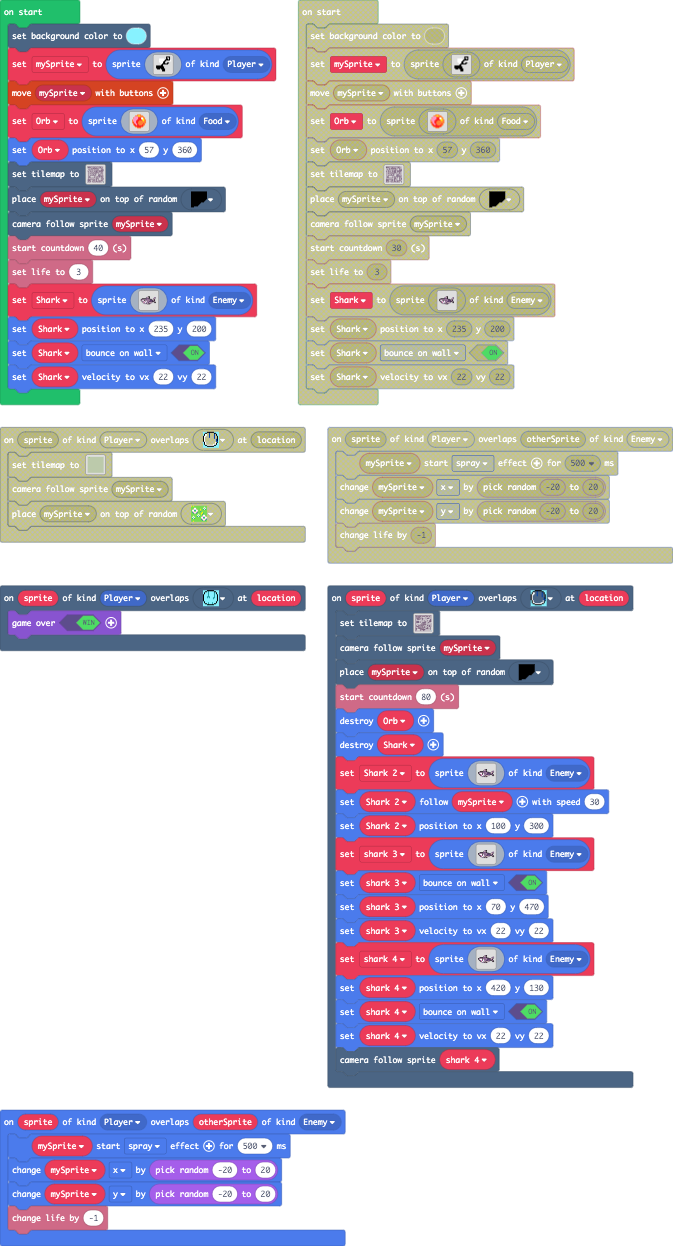
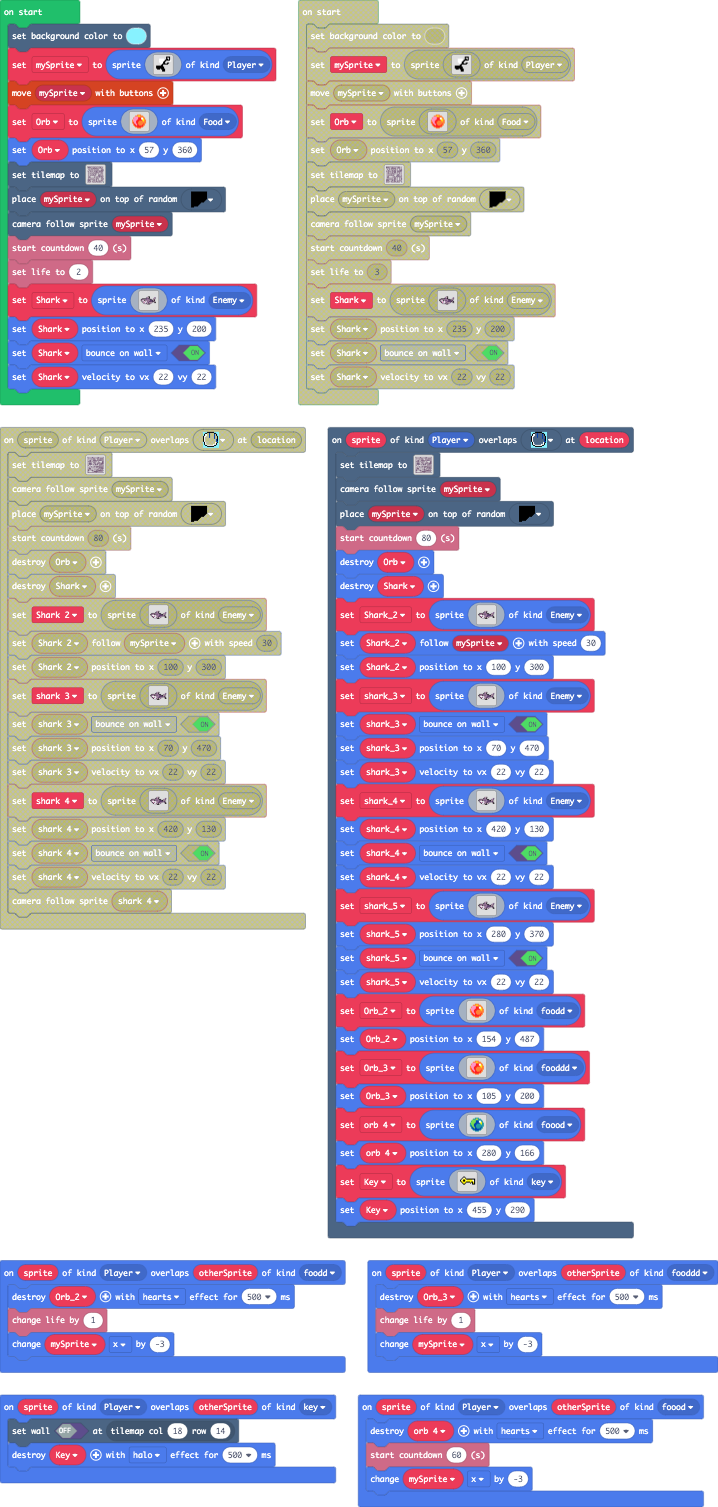
added more enemys and food

diff --git a/main.ts b/main.ts
@@ -1,3 +1,9 @@
+namespace SpriteKind {
+    export const foodd = SpriteKind.create()
+    export const fooddd = SpriteKind.create()
+    export const key = SpriteKind.create()
+    export const foood = SpriteKind.create()
+}
 namespace myTiles {
     //% blockIdentity=images._tile
     export const tile0 = img`
@@ -60,6 +66,15 @@ f 1 . . . . . . . . . . . 8 8 9
 scene.onOverlapTile(SpriteKind.Player, myTiles.tile1, function (sprite, location) {
     game.over(true)
 })
+sprites.onOverlap(SpriteKind.Player, SpriteKind.foood, function (sprite, otherSprite) {
+    orb_4.destroy(effects.hearts, 500)
+    info.startCountdown(60)
+    mySprite.x += -3
+})
+sprites.onOverlap(SpriteKind.Player, SpriteKind.key, function (sprite, otherSprite) {
+    tiles.setWallAt(tiles.getTileLocation(18, 14), false)
+    Key.destroy(effects.halo, 500)
+})
 sprites.onOverlap(SpriteKind.Player, SpriteKind.Food, function (sprite, otherSprite) {
     Orb.destroy(effects.hearts, 500)
     info.changeLifeBy(1)
@@ -71,9 +86,14 @@ sprites.onOverlap(SpriteKind.Player, SpriteKind.Enemy, function (sprite, otherSp
     mySprite.y += Math.randomRange(-20, 20)
     info.changeLifeBy(-1)
 })
+sprites.onOverlap(SpriteKind.Player, SpriteKind.foodd, function (sprite, otherSprite) {
+    Orb_2.destroy(effects.hearts, 500)
+    info.changeLifeBy(1)
+    mySprite.x += -3
+})
 scene.onOverlapTile(SpriteKind.Player, myTiles.tile2, function (sprite, location) {
     tiles.setTilemap(tiles.createTilemap(
[2 lines of base64/hex data omitted]
             img`
 2 2 2 2 2 2 2 2 2 2 2 2 2 2 2 2 2 2 2 2 2 2 2 2 2 2 2 2 2 2 2 2 
 . . . . . . . . . . . . . . . . . . . . . . . . . . . . . . . . 
@@ -96,15 +116,15 @@ scene.onOverlapTile(SpriteKind.Player, myTiles.tile2, function (sprite, location
 2 . . 2 . . . . . . 2 . 2 . 2 2 2 2 2 2 2 . . 2 . 2 . 2 . 2 . 2 
 2 . . . 2 . . . . . 2 . . . 2 . . 2 . 2 2 2 2 2 . 2 . 2 . 2 . 2 
 2 . 2 . . 2 2 2 2 . 2 2 2 2 2 . 2 2 . 2 . . . . . 2 . 2 . 2 . 2 
-2 . 2 2 . . . . 2 . 2 . . . 2 . . 2 . 2 . 2 . 2 2 2 . 2 . 2 . 2 
-2 . 2 2 2 2 2 . 2 . 2 . 2 2 2 2 . 2 2 2 . 2 . 2 . 2 . 2 . 2 . 2 
+2 . 2 2 . . . . 2 . 2 . . . 2 . . 2 2 2 . 2 . 2 2 2 . 2 . 2 . 2 
+2 . 2 2 2 2 2 . 2 . 2 . 2 2 2 2 . 2 . . . 2 . 2 . 2 . 2 . . . 2 
 2 . 2 2 2 2 2 . . . 2 . . . . . . . . . . 2 . 2 . 2 . 2 2 2 2 2 
-2 . . . . 2 2 2 2 2 2 . 2 2 2 . 2 2 2 2 . 2 . 2 2 2 . . . . . . 
-2 2 2 2 . 2 . . . . . . . . 2 . 2 . . 2 . 2 . . . 2 . 2 2 2 2 . 
+2 . . . . 2 2 2 2 2 2 . 2 2 2 . 2 . . . . 2 . 2 2 2 . . . . . . 
+2 2 2 2 . 2 . . . . . . . . 2 . 2 2 2 2 . 2 . . . 2 . 2 2 2 2 . 
 2 2 2 2 . 2 2 2 2 2 2 2 2 2 2 . 2 . . 2 . 2 2 2 2 2 . 2 . . 2 . 
 2 . . . . . . . . . 2 . . . . . 2 . . 2 . 2 2 2 2 2 2 2 2 2 2 2 
 2 . . . . . . . . . 2 . 2 2 2 2 2 . . 2 . . . . . . . . . . 2 . 
-2 . . . . . . . . . 2 . 2 2 2 2 2 2 2 2 2 2 2 2 2 2 2 2 2 2 . . 
+2 . . . . . . . . . 2 . 2 2 2 2 2 2 2 2 2 2 2 2 2 2 2 2 2 2 2 . 
 2 . . . . . . . . . 2 . . . . . . . . . . . . . . . . . . . . . 
 2 2 2 2 2 2 2 2 2 2 2 2 2 2 2 2 2 2 2 2 2 2 2 2 2 2 2 2 2 2 2 2 
 `,
@@ -178,11 +198,117 @@ f b b b 1 1 1 1 f f 1 b c b c b b b c c c c c c c b b b c f . .
     shark_4.setPosition(420, 130)
     shark_4.setFlag(SpriteFlag.BounceOnWall, true)
     shark_4.setVelocity(22, 22)
-    scene.cameraFollowSprite(shark_4)
+    shark_5 = sprites.create(img`
+. . . . . . . . . . . . . c c f f f . . . . . . . . . . . . . . 
+. . . . . . . . . . . . c d d b b f . . . . . . . . . . . . . . 
+. . . . . . . . . . . c d d b b f . . . . . . . . . . . . . . . 
+. . . . . . . . . . f c c b b c f . . . . . . . . . . . . c c c 
+. . . . f f f f f f c c c c c c f f . . . . . . . . . c c b b c 
+. . f f b b b b b b b b b b b b b c f f f . . . . . c d b b c . 
+f f b b b b b b b b b c b c b b b b c c c f f . . c d d b b f . 
+f b c b b b b b f f b b c b c b b b c c c c c f f f d b b f . . 
+f b b b 1 1 1 1 f f 1 b c b c b b b c c c c c c c b b b c f . . 
+. f b 1 1 1 1 1 1 1 1 b b b b b b c c c c c c c c c b c c f . . 
+. . f c c c 3 3 c c 1 1 b b b b c c c c c c c c f f f b b c f . 
+. . . f c 1 3 1 c 1 1 1 b b b c c c c c b d b c . . . f b b f . 
+. . . . f 3 3 c 1 1 1 c b b b f d d d d d c c . . . . . f b b f 
+. . . . . f f 1 1 1 1 f b d b b f d d c c . . . . . . . . f f f 
+. . . . . . . c c c c c f b d b b f c . . . . . . . . . . . . . 
+. . . . . . . . . . . . . f f f f f . . . . . . . . . . . . . . 
+`, SpriteKind.Enemy)
+    shark_5.setPosition(280, 370)
+    shark_5.setFlag(SpriteFlag.BounceOnWall, true)
+    shark_5.setVelocity(22, 22)
+    Orb_2 = sprites.create(img`
+. . . . . . . . . . . . . . . . 
+. . . . . . 4 4 4 4 . . . . . . 
+. . . . 4 4 4 5 5 4 4 4 . . . . 
+. . . 3 3 3 3 4 4 4 4 4 4 . . . 
+. . 4 3 3 3 3 2 2 2 1 1 4 4 . . 
+. . 3 3 3 3 3 2 2 2 1 1 5 4 . . 
+. 4 3 3 3 3 2 2 2 2 2 5 5 4 4 . 
+. 4 3 3 3 2 2 2 4 4 4 4 5 4 4 . 
+. 4 4 3 3 2 2 4 4 4 4 4 4 4 4 . 
+. 4 2 3 3 2 2 4 4 4 4 4 4 4 4 . 
+. . 4 2 3 3 2 4 4 4 4 4 2 4 . . 
+. . 4 2 2 3 2 2 4 4 4 2 4 4 . . 
+. . . 4 2 2 2 2 2 2 2 2 4 . . . 
+. . . . 4 4 2 2 2 2 4 4 . . . . 
+. . . . . . 4 4 4 4 . . . . . . 
+. . . . . . . . . . . . . . . . 
+`, SpriteKind.foodd)
+    Orb_2.setPosition(154, 487)
+    Orb_3 = sprites.create(img`
+. . . . . . . . . . . . . . . . 
+. . . . . . 4 4 4 4 . . . . . . 
+. . . . 4 4 4 5 5 4 4 4 . . . . 
+. . . 3 3 3 3 4 4 4 4 4 4 . . . 
+. . 4 3 3 3 3 2 2 2 1 1 4 4 . . 
+. . 3 3 3 3 3 2 2 2 1 1 5 4 . . 
+. 4 3 3 3 3 2 2 2 2 2 5 5 4 4 . 
+. 4 3 3 3 2 2 2 4 4 4 4 5 4 4 . 
+. 4 4 3 3 2 2 4 4 4 4 4 4 4 4 . 
+. 4 2 3 3 2 2 4 4 4 4 4 4 4 4 . 
+. . 4 2 3 3 2 4 4 4 4 4 2 4 . . 
+. . 4 2 2 3 2 2 4 4 4 2 4 4 . . 
+. . . 4 2 2 2 2 2 2 2 2 4 . . . 
+. . . . 4 4 2 2 2 2 4 4 . . . . 
+. . . . . . 4 4 4 4 . . . . . . 
+. . . . . . . . . . . . . . . . 
+`, SpriteKind.fooddd)
+    Orb_3.setPosition(105, 200)
+    orb_4 = sprites.create(img`
+. . . . . . . . . . . . . . . . 
+. . . . . . 6 6 6 6 . . . . . . 
+. . . . 6 6 6 5 5 6 6 6 . . . . 
+. . . 7 7 7 7 6 6 6 6 6 6 . . . 
+. . 6 7 7 7 7 8 8 8 1 1 6 6 . . 
+. . 7 7 7 7 7 8 8 8 1 1 5 6 . . 
+. 6 7 7 7 7 8 8 8 8 8 5 5 6 6 . 
+. 6 7 7 7 8 8 8 6 6 6 6 5 6 6 . 
+. 6 6 7 7 8 8 6 6 6 6 6 6 6 6 . 
+. 6 8 7 7 8 8 6 6 6 6 6 6 6 6 . 
+. . 6 8 7 7 8 6 6 6 6 6 8 6 . . 
+. . 6 8 8 7 8 8 6 6 6 8 6 6 . . 
+. . . 6 8 8 8 8 8 8 8 8 6 . . . 
+. . . . 6 6 8 8 8 8 6 6 . . . . 
+. . . . . . 6 6 6 6 . . . . . . 
+. . . . . . . . . . . . . . . . 
+`, SpriteKind.foood)
+    orb_4.setPosition(280, 166)
+    Key = sprites.create(img`
+. . . . . . . . . . . . . . . . 
+. . . . . . . . . . . . . . . . 
+. . . . . . . . . . . . . . . . 
+. . . . f f . . . . . . . . . . 
+. . . f 1 1 f . . . . . . . . . 
+. . f 1 5 5 5 f f f f f f f f f 
+. f 1 5 f f 5 1 5 5 5 5 5 1 1 f 
+. f 5 5 f f 5 5 5 5 5 5 5 5 1 f 
+. . f 5 5 5 5 f f f f 5 f f 5 f 
+. . . f 5 5 f . . . . f . f 5 f 
+. . . . f f . . . . . . . f f f 
+. . . . . . . . . . . . . . . . 
+. . . . . . . . . . . . . . . . 
+. . . . . . . . . . . . . . . . 
+. . . . . . . . . . . . . . . . 
+. . . . . . . . . . . . . . . . 
+`, SpriteKind.key)
+    Key.setPosition(455, 290)
 })
+sprites.onOverlap(SpriteKind.Player, SpriteKind.fooddd, function (sprite, otherSprite) {
+    Orb_3.destroy(effects.hearts, 500)
+    info.changeLifeBy(1)
+    mySprite.x += -3
+})
+let Orb_3: Sprite = null
+let shark_5: Sprite = null
 let shark_4: Sprite = null
 let shark_3: Sprite = null
 let Shark_2: Sprite = null
+let Orb_2: Sprite = null
+let Key: Sprite = null
+let orb_4: Sprite = null
 let Shark: Sprite = null
 let Orb: Sprite = null
 let mySprite: Sprite = null
@@ -259,7 +385,7 @@ tiles.setTilemap(tiles.createTilemap(
 tiles.placeOnRandomTile(mySprite, sprites.builtin.oceanDepths10)
 scene.cameraFollowSprite(mySprite)
 info.startCountdown(40)
-info.setLife(3)
+info.setLife(2)
 Shark = sprites.create(img`
 . . . . . . . . . . . . . . c f f f . . . . . . . . . . . . . . 
 . . . . . . . . . . . . c c d d b f . . . . . . . . . . . . . . 
